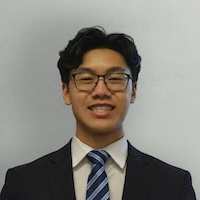
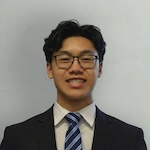
Added API

diff --git a/index.html b/index.html
@@ -311,8 +311,23 @@
       </footer>
     </div>
   </body>
-  <script>
+  <script type="module">
+    const getCurrentYear = async () => {
+      try {
+        const response = await fetch(
+          "https://timeapi.io/api/Time/current/zone?timeZone=America/Chicago",
+        );
+        const data = await response.json();
+        return data.year;
+      } catch (error) {
+        return new Date().getFullYear();
+      }
+    };
+
+    const year = await getCurrentYear();
+    const copyrightText = `© ${year} Thomas Nguyen. All rights reserved.`;
     const copyrightParagraph = document.querySelector("p.copyright");
-    copyrightParagraph.textContent = `© ${new Date().getFullYear()} Thomas Nguyen. All rights reserved.`;
+
+    copyrightParagraph.textContent = copyrightText;
   </script>
 </html>

diff --git a/README.md b/README.md
@@ -6,4 +6,4 @@ This repository contains the source code for my personal portfolio website, curr
 
 ## Screenshot Preview
 
-![Preview](Preview.jpg)
+![Website Screenshot](preview.jpg)
